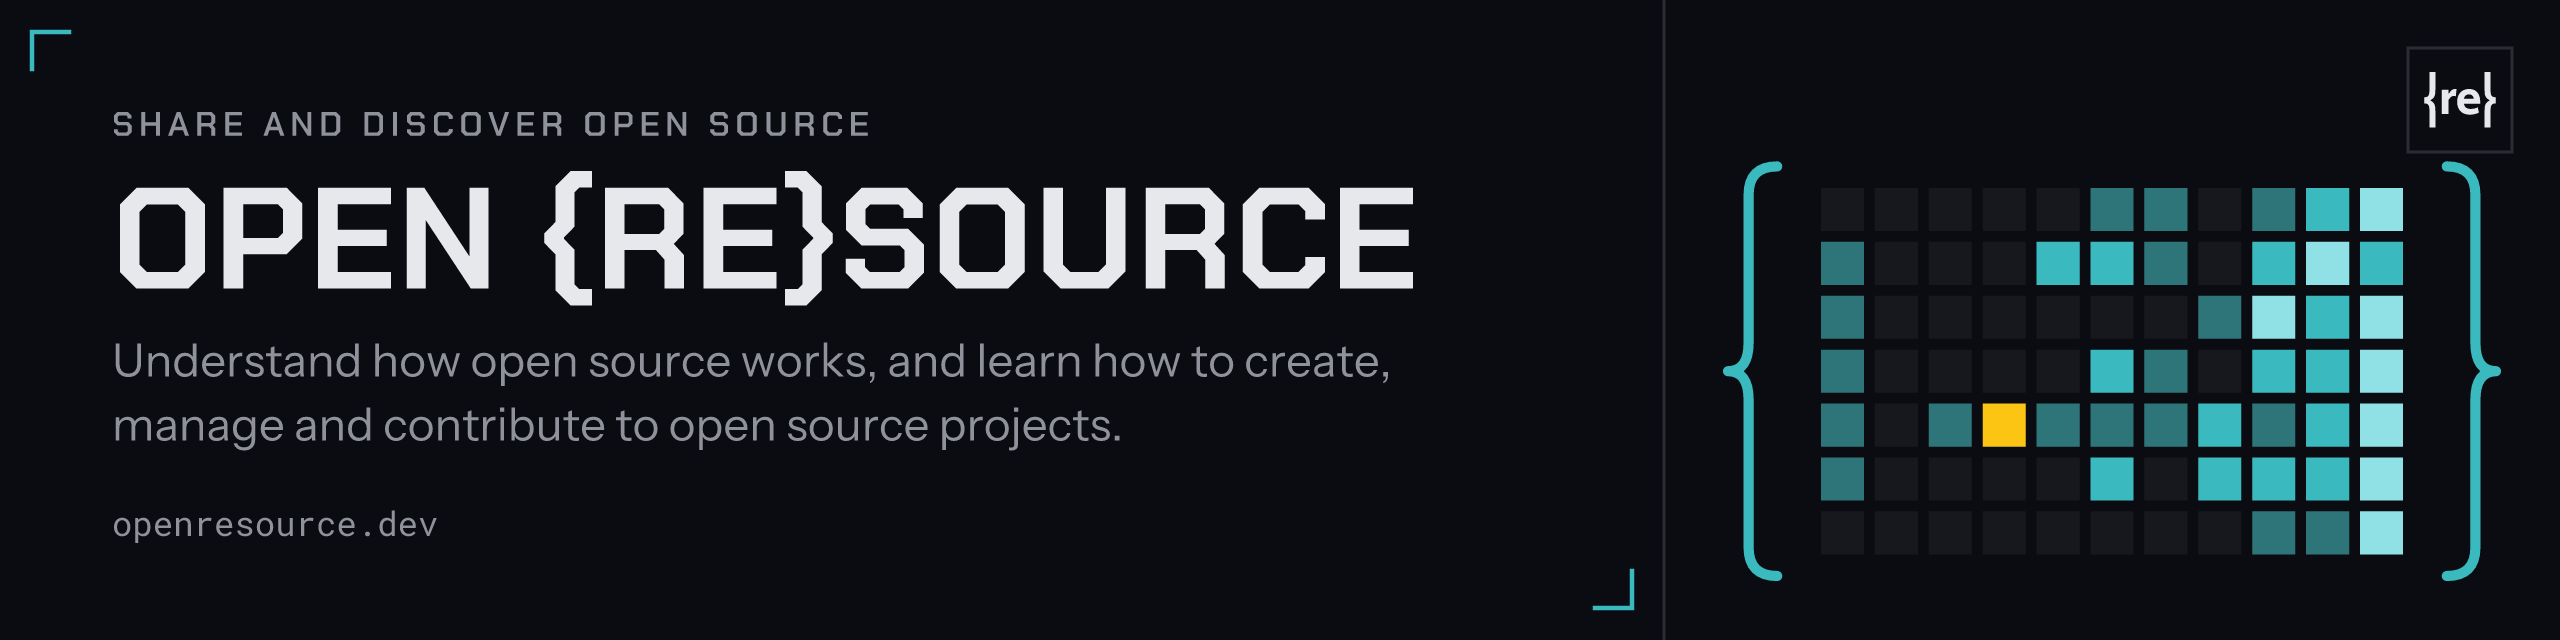
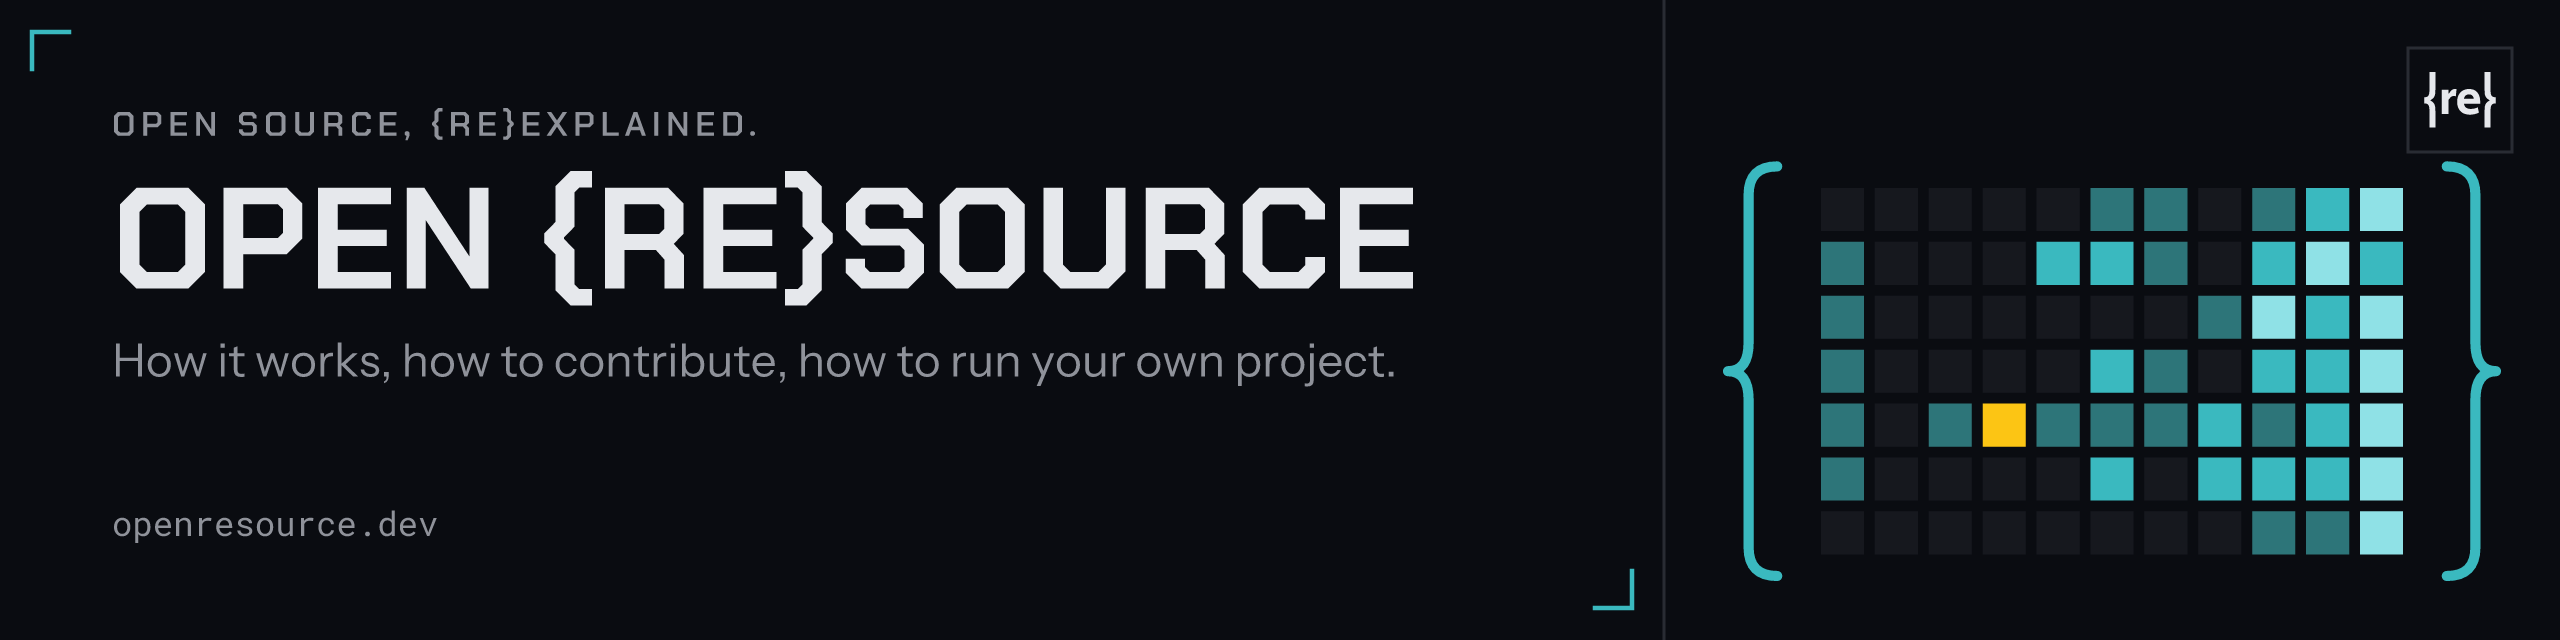
feat: new headline, "Open source, {re}explained."
"Your platform for sharing and discovering the open source world" took
five lines of display type in the hero. The homepage, the site
description, the OG card, the README header and the README intro now
say "Open source, {re}explained." with the subline "How it works, how to
contribute, how to run your own project."

Changed region(s): [[0.0312, 0.5312, 0.5625, 0.5938], [0.0312, 0.1562, 0.3438, 0.2188], [0.0312, 0.625, 0.4375, 0.6875]]

diff --git a/README.md b/README.md
@@ -1,13 +1,13 @@
-<p align="center"><a href="https://openresource.dev"><picture><source srcset=".github/header.svg" type="image/svg+xml"><img src=".github/header.png" width="830" alt="Open {re}Source, your platform for sharing and discovering the open source world."></picture></a></p>
+<p align="center"><a href="https://openresource.dev"><picture><source srcset=".github/header.svg" type="image/svg+xml"><img src=".github/header.png" width="830" alt="Open {re}Source. Open source, {re}explained: how it works, how to contribute, how to run your own project."></picture></a></p>
 
 <h1 align="center">openresource.dev</h1>
 
 <p align="center">
-  <b>Open {re}Source is your platform for sharing and discovering the open source world.</b>
+  <b>Open source, {re}explained.</b>
   <br>
-  Understand how it works, and learn how to create, manage, and contribute to open-source projects.
+  How it works, how to contribute, how to run your own project.
   <br>
-  Join the open source community today and start making a difference.
+  A free guide, articles and a showcase by the Open {re}Source community.
 </p>
 
 <p align="center">
